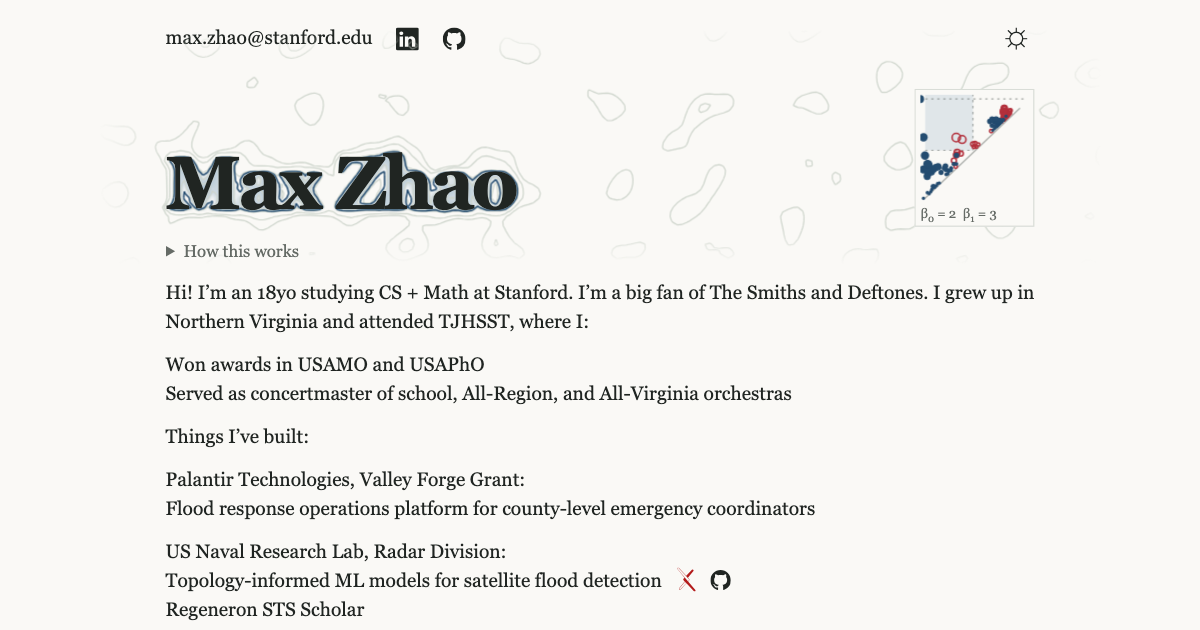
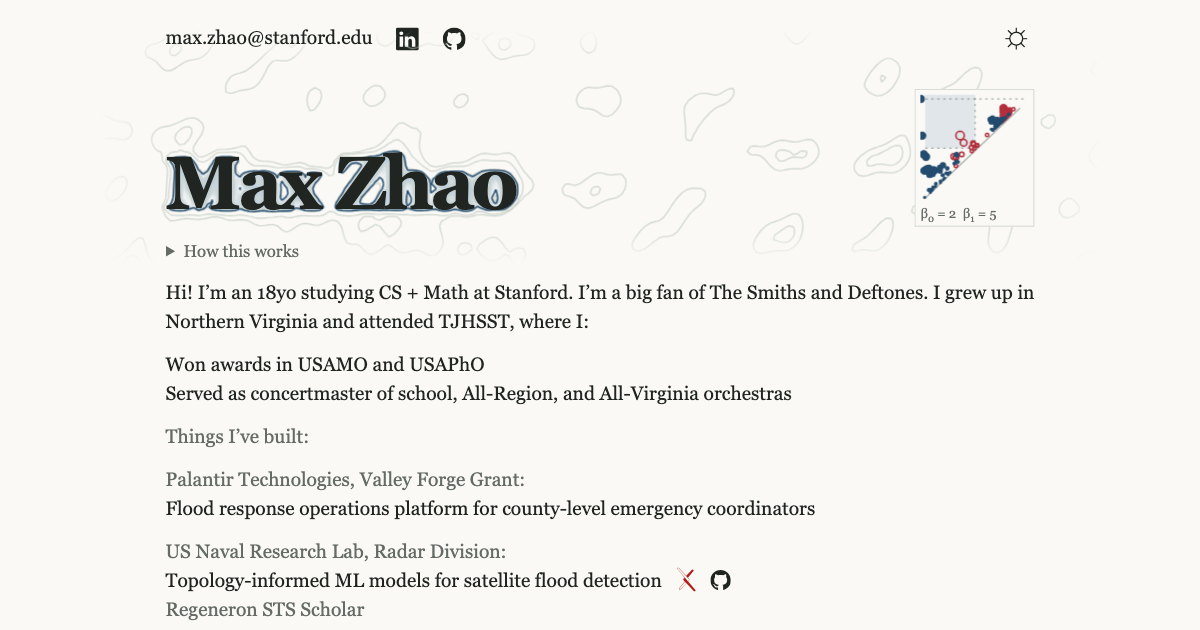
Hold the text until the flood drains; grey the secondary lines
- Slow the intro (rise 2.5 s, drain 1.2 s). flood.js fires flood:settle
  when the water starts to drain or the intro is skipped, and the text
  below the name surfaces then, block by block in reading order (fade,
  rise and unblur). Reduced motion shows it at once, and a 6 s timer
  shows it if the script never loads.
- Set organisation lines, award lines and "Things I've built" in the
  muted grey so each project's own line stands out.
- Remove duplicate KaTeX stylesheet links left by earlier rebuilds.

diff --git a/index.html b/index.html
@@ -33,15 +33,17 @@
       try { saved = localStorage.getItem('max-portfolio-theme'); } catch (e) {}
       const dark = saved ? saved === 'dark' : matchMedia('(prefers-color-scheme: dark)').matches;
       document.documentElement.dataset.theme = dark ? 'dark' : 'light';
+      // hold the text back while the flood intro plays; flood.js fires flood:settle
+      // as the water starts to drain (or at once if the intro is skipped)
+      if (!matchMedia('(prefers-reduced-motion: reduce)').matches) {
+        const root = document.documentElement, show = () => root.classList.remove('intro');
+        root.classList.add('intro');
+        addEventListener('flood:settle', show, { once: true });
+        setTimeout(show, 6000);
+      }
     })();
   </script>
   <script src="flood.js" defer></script>
-  <link rel="stylesheet" href="https://cdn.jsdelivr.net/npm/katex@0.16.47/dist/katex.min.css" integrity="sha384-nH0MfJ44wi1dd7w6jinlyBgljjS8EJAh2JBoRad8a3VDw2K69vfaaqm4WnR+gXtA" crossorigin="anonymous">
-  <link rel="stylesheet" href="https://cdn.jsdelivr.net/npm/katex@0.16.47/dist/katex.min.css" integrity="sha384-nH0MfJ44wi1dd7w6jinlyBgljjS8EJAh2JBoRad8a3VDw2K69vfaaqm4WnR+gXtA" crossorigin="anonymous">
-  <link rel="stylesheet" href="https://cdn.jsdelivr.net/npm/katex@0.16.47/dist/katex.min.css" integrity="sha384-nH0MfJ44wi1dd7w6jinlyBgljjS8EJAh2JBoRad8a3VDw2K69vfaaqm4WnR+gXtA" crossorigin="anonymous">
-  <link rel="stylesheet" href="https://cdn.jsdelivr.net/npm/katex@0.16.47/dist/katex.min.css" integrity="sha384-nH0MfJ44wi1dd7w6jinlyBgljjS8EJAh2JBoRad8a3VDw2K69vfaaqm4WnR+gXtA" crossorigin="anonymous">
-  <link rel="stylesheet" href="https://cdn.jsdelivr.net/npm/katex@0.16.47/dist/katex.min.css" integrity="sha384-nH0MfJ44wi1dd7w6jinlyBgljjS8EJAh2JBoRad8a3VDw2K69vfaaqm4WnR+gXtA" crossorigin="anonymous">
-  <link rel="stylesheet" href="https://cdn.jsdelivr.net/npm/katex@0.16.47/dist/katex.min.css" integrity="sha384-nH0MfJ44wi1dd7w6jinlyBgljjS8EJAh2JBoRad8a3VDw2K69vfaaqm4WnR+gXtA" crossorigin="anonymous">
   <link rel="stylesheet" href="https://cdn.jsdelivr.net/npm/katex@0.16.47/dist/katex.min.css" integrity="sha384-nH0MfJ44wi1dd7w6jinlyBgljjS8EJAh2JBoRad8a3VDw2K69vfaaqm4WnR+gXtA" crossorigin="anonymous">
   <style>
     :root {
@@ -102,6 +104,7 @@
     .flood-pd canvas { display: block; width: 100%; aspect-ratio: 1; }
     .flood-pd figcaption { padding-top: 2px; color: var(--muted); font-size: 11px; line-height: 1.4; white-space: nowrap; }
     .flood-pd sub { font-size: .75em; line-height: 0; }
+    .meta { color: var(--muted); }
     .how { position: relative; z-index: 1; color: var(--muted); font-size: 14px; line-height: 1.5; }
     .how summary { width: fit-content; cursor: pointer; }
     .how p { margin: 6px 0 0; }
@@ -112,6 +115,8 @@
     .icon.arxiv { color: #b31b1b; }
     .icon.arxiv svg { width: 20px; height: 20px; margin: -1px 0; }
     :root[data-theme="dark"] .icon.arxiv { color: #f0908c; }
+    .intro main > :not(.flood) { opacity: 0; transform: translateY(10px); filter: blur(4px); }
+    main > :not(.flood) { transition: opacity .8s ease, transform .9s cubic-bezier(.2, .7, .2, 1), filter .8s ease; transition-delay: calc(var(--i, 0) * 110ms); }
     /* short laptop screens: tighten so the page still fits without scrolling */
     @media (max-height: 760px) and (min-width: 601px) {
       :root { --gap: 12px; }
@@ -139,6 +144,7 @@
       body { transition: none; }
       .flood { cursor: auto; }
       .fig-dig { display: none; }
+      main > :not(.flood) { transition: none; }
     }
   </style>
 </head>
@@ -158,28 +164,28 @@
         <figcaption aria-hidden="true"><span data-flood-readout>β₀ β₁</span></figcaption>
       </figure>
     </div>
-    <details class="how">
+    <details class="how" style="--i:0">
       <summary>How this works</summary>
       <p>The name is terrain: <span class="katex"><span class="katex-mathml"><math xmlns="http://www.w3.org/1998/Math/MathML"><semantics><mrow><mi>f</mi><mo>=</mo><mn>1</mn><mo>−</mo><mn>0.62</mn><mtext> </mtext><mo stretchy="false">(</mo><msub><mi>G</mi><msub><mi>σ</mi><mn>1</mn></msub></msub><mo>∗</mo><mi>L</mi><mo stretchy="false">)</mo><mo>−</mo><mn>0.30</mn><mtext> </mtext><mo stretchy="false">(</mo><msub><mi>G</mi><msub><mi>σ</mi><mn>2</mn></msub></msub><mo>∗</mo><mi>L</mi><mo stretchy="false">)</mo><mo>+</mo><mi>η</mi></mrow><annotation encoding="application/x-tex">f = 1 - 0.62\,(G_{\sigma_1} * L) - 0.30\,(G_{\sigma_2} * L) + \eta</annotation></semantics></math></span><span class="katex-html" aria-hidden="true"><span class="base"><span class="strut" style="height:0.8889em;vertical-align:-0.1944em;"></span><span class="mord mathnormal" style="margin-right:0.1076em;">f</span><span class="mspace" style="margin-right:0.2778em;"></span><span class="mrel">=</span><span class="mspace" style="margin-right:0.2778em;"></span></span><span class="base"><span class="strut" style="height:0.7278em;vertical-align:-0.0833em;"></span><span class="mord">1</span><span class="mspace" style="margin-right:0.2222em;"></span><span class="mbin">−</span><span class="mspace" style="margin-right:0.2222em;"></span></span><span class="base"><span class="strut" style="height:1.0001em;vertical-align:-0.2501em;"></span><span class="mord">0.62</span><span class="mspace" style="margin-right:0.1667em;"></span><span class="mopen">(</span><span class="mord"><span class="mord mathnormal">G</span><span class="msupsub"><span class="vlist-t vlist-t2"><span class="vlist-r"><span class="vlist" style="height:0.1514em;"><span style="top:-2.55em;margin-left:0em;margin-right:0.05em;"><span class="pstrut" style="height:2.7em;"></span><span class="sizing reset-size6 size3 mtight"><span class="mord mtight"><span class="mord mtight"><span class="mord mathnormal mtight" style="margin-right:0.0359em;">σ</span><span class="msupsub"><span class="vlist-t vlist-t2"><span class="vlist-r"><span class="vlist" style="height:0.3173em;"><span style="top:-2.357em;margin-left:-0.0359em;margin-right:0.0714em;"><span class="pstrut" style="height:2.5em;"></span><span class="sizing reset-size3 size1 mtight"><span class="mord mtight">1</span></span></span></span><span class="vlist-s"></span></span><span class="vlist-r"><span class="vlist" style="height:0.143em;"><span></span></span></span></span></span></span></span></span></span></span><span class="vlist-s"></span></span><span class="vlist-r"><span class="vlist" style="height:0.2501em;"><span></span></span></span></span></span></span><span class="mspace" style="margin-right:0.2222em;"></span><span class="mbin">∗</span><span class="mspace" style="margin-right:0.2222em;"></span></span><span class="base"><span class="strut" style="height:1em;vertical-align:-0.25em;"></span><span class="mord mathnormal">L</span><span class="mclose">)</span><span class="mspace" style="margin-right:0.2222em;"></span><span class="mbin">−</span><span class="mspace" style="margin-right:0.2222em;"></span></span><span class="base"><span class="strut" style="height:1.0001em;vertical-align:-0.2501em;"></span><span class="mord">0.30</span><span class="mspace" style="margin-right:0.1667em;"></span><span class="mopen">(</span><span class="mord"><span class="mord mathnormal">G</span><span class="msupsub"><span class="vlist-t vlist-t2"><span class="vlist-r"><span class="vlist" style="height:0.1514em;"><span style="top:-2.55em;margin-left:0em;margin-right:0.05em;"><span class="pstrut" style="height:2.7em;"></span><span class="sizing reset-size6 size3 mtight"><span class="mord mtight"><span class="mord mtight"><span class="mord mathnormal mtight" style="margin-right:0.0359em;">σ</span><span class="msupsub"><span class="vlist-t vlist-t2"><span class="vlist-r"><span class="vlist" style="height:0.3173em;"><span style="top:-2.357em;margin-left:-0.0359em;margin-right:0.0714em;"><span class="pstrut" style="height:2.5em;"></span><span class="sizing reset-size3 size1 mtight"><span class="mord mtight">2</span></span></span></span><span class="vlist-s"></span></span><span class="vlist-r"><span class="vlist" style="height:0.143em;"><span></span></span></span></span></span></span></span></span></span></span><span class="vlist-s"></span></span><span class="vlist-r"><span class="vlist" style="height:0.2501em;"><span></span></span></span></span></span></span><span class="mspace" style="margin-right:0.2222em;"></span><span class="mbin">∗</span><span class="mspace" style="margin-right:0.2222em;"></span></span><span class="base"><span class="strut" style="height:1em;vertical-align:-0.25em;"></span><span class="mord mathnormal">L</span><span class="mclose">)</span><span class="mspace" style="margin-right:0.2222em;"></span><span class="mbin">+</span><span class="mspace" style="margin-right:0.2222em;"></span></span><span class="base"><span class="strut" style="height:0.625em;vertical-align:-0.1944em;"></span><span class="mord mathnormal" style="margin-right:0.0359em;">η</span></span></span></span>, where <span class="katex"><span class="katex-mathml"><math xmlns="http://www.w3.org/1998/Math/MathML"><semantics><mrow><mi>L</mi></mrow><annotation encoding="application/x-tex">L</annotation></semantics></math></span><span class="katex-html" aria-hidden="true"><span class="base"><span class="strut" style="height:0.6833em;"></span><span class="mord mathnormal">L</span></span></span></span> is the letter mask, <span class="katex"><span class="katex-mathml"><math xmlns="http://www.w3.org/1998/Math/MathML"><semantics><mrow><msub><mi>G</mi><mi>σ</mi></msub></mrow><annotation encoding="application/x-tex">G_\sigma</annotation></semantics></math></span><span class="katex-html" aria-hidden="true"><span class="base"><span class="strut" style="height:0.8333em;vertical-align:-0.15em;"></span><span class="mord"><span class="mord mathnormal">G</span><span class="msupsub"><span class="vlist-t vlist-t2"><span class="vlist-r"><span class="vlist" style="height:0.1514em;"><span style="top:-2.55em;margin-left:0em;margin-right:0.05em;"><span class="pstrut" style="height:2.7em;"></span><span class="sizing reset-size6 size3 mtight"><span class="mord mathnormal mtight" style="margin-right:0.0359em;">σ</span></span></span></span><span class="vlist-s"></span></span><span class="vlist-r"><span class="vlist" style="height:0.15em;"><span></span></span></span></span></span></span></span></span></span> a Gaussian blur, and <span class="katex"><span class="katex-mathml"><math xmlns="http://www.w3.org/1998/Math/MathML"><semantics><mrow><mi>η</mi><mo stretchy="false">(</mo><mi mathvariant="bold">x</mi><mo stretchy="false">)</mo><mo>=</mo><msub><mo>∑</mo><mi mathvariant="bold">k</mi></msub><msub><mi>a</mi><mi mathvariant="bold">k</mi></msub><mi>cos</mi><mo></mo><mo stretchy="false">(</mo><mi mathvariant="bold">k</mi><mo>⋅</mo><mi mathvariant="bold">x</mi><mo stretchy="false">)</mo><mo>+</mo><msub><mi>b</mi><mi mathvariant="bold">k</mi></msub><mi>sin</mi><mo></mo><mo stretchy="false">(</mo><mi mathvariant="bold">k</mi><mo>⋅</mo><mi mathvariant="bold">x</mi><mo stretchy="false">)</mo></mrow><annotation encoding="application/x-tex">\eta(\mathbf{x}) = \sum_{\mathbf{k}} a_{\mathbf{k}} \cos(\mathbf{k} \cdot \mathbf{x}) + b_{\mathbf{k}} \sin(\mathbf{k} \cdot \mathbf{x})</annotation></semantics></math></span><span class="katex-html" aria-hidden="true"><span class="base"><span class="strut" style="height:1em;vertical-align:-0.25em;"></span><span class="mord mathnormal" style="margin-right:0.0359em;">η</span><span class="mopen">(</span><span class="mord mathbf">x</span><span class="mclose">)</span><span class="mspace" style="margin-right:0.2778em;"></span><span class="mrel">=</span><span class="mspace" style="margin-right:0.2778em;"></span></span><span class="base"><span class="strut" style="height:1.0497em;vertical-align:-0.2997em;"></span><span class="mop"><span class="mop op-symbol small-op" style="position:relative;top:0em;">∑</span><span class="msupsub"><span class="vlist-t vlist-t2"><span class="vlist-r"><span class="vlist" style="height:0.1864em;"><span style="top:-2.4003em;margin-left:0em;margin-right:0.05em;"><span class="pstrut" style="height:2.7em;"></span><span class="sizing reset-size6 size3 mtight"><span class="mord mtight"><span class="mord mathbf mtight">k</span></span></span></span></span><span class="vlist-s"></span></span><span class="vlist-r"><span class="vlist" style="height:0.2997em;"><span></span></span></span></span></span></span><span class="mspace" style="margin-right:0.1667em;"></span><span class="mord"><span class="mord mathnormal">a</span><span class="msupsub"><span class="vlist-t vlist-t2"><span class="vlist-r"><span class="vlist" style="height:0.3361em;"><span style="top:-2.55em;margin-left:0em;margin-right:0.05em;"><span class="pstrut" style="height:2.7em;"></span><span class="sizing reset-size6 size3 mtight"><span class="mord mtight"><span class="mord mathbf mtight">k</span></span></span></span></span><span class="vlist-s"></span></span><span class="vlist-r"><span class="vlist" style="height:0.15em;"><span></span></span></span></span></span></span><span class="mspace" style="margin-right:0.1667em;"></span><span class="mop">cos</span><span class="mopen">(</span><span class="mord mathbf">k</span><span class="mspace" style="margin-right:0.2222em;"></span><span class="mbin">⋅</span><span class="mspace" style="margin-right:0.2222em;"></span></span><span class="base"><span class="strut" style="height:1em;vertical-align:-0.25em;"></span><span class="mord mathbf">x</span><span class="mclose">)</span><span class="mspace" style="margin-right:0.2222em;"></span><span class="mbin">+</span><span class="mspace" style="margin-right:0.2222em;"></span></span><span class="base"><span class="strut" style="height:1em;vertical-align:-0.25em;"></span><span class="mord"><span class="mord mathnormal">b</span><span class="msupsub"><span class="vlist-t vlist-t2"><span class="vlist-r"><span class="vlist" style="height:0.3361em;"><span style="top:-2.55em;margin-left:0em;margin-right:0.05em;"><span class="pstrut" style="height:2.7em;"></span><span class="sizing reset-size6 size3 mtight"><span class="mord mtight"><span class="mord mathbf mtight">k</span></span></span></span></span><span class="vlist-s"></span></span><span class="vlist-r"><span class="vlist" style="height:0.15em;"><span></span></span></span></span></span></span><span class="mspace" style="margin-right:0.1667em;"></span><span class="mop">sin</span><span class="mopen">(</span><span class="mord mathbf">k</span><span class="mspace" style="margin-right:0.2222em;"></span><span class="mbin">⋅</span><span class="mspace" style="margin-right:0.2222em;"></span></span><span class="base"><span class="strut" style="height:1em;vertical-align:-0.25em;"></span><span class="mord mathbf">x</span><span class="mclose">)</span></span></span></span> a random field whose coefficients follow Ornstein–Uhlenbeck processes, <span class="katex"><span class="katex-mathml"><math xmlns="http://www.w3.org/1998/Math/MathML"><semantics><mrow><mi>d</mi><msub><mi>a</mi><mi mathvariant="bold">k</mi></msub><mo>=</mo><mo>−</mo><mi>θ</mi><mtext> </mtext><msub><mi>a</mi><mi mathvariant="bold">k</mi></msub><mtext> </mtext><mi>d</mi><mi>t</mi><mo>+</mo><mi>σ</mi><mtext> </mtext><mi>d</mi><mi>W</mi></mrow><annotation encoding="application/x-tex">da_{\mathbf{k}} = -\theta\, a_{\mathbf{k}}\,dt + \sigma\,dW</annotation></semantics></math></span><span class="katex-html" aria-hidden="true"><span class="base"><span class="strut" style="height:0.8444em;vertical-align:-0.15em;"></span><span class="mord mathnormal">d</span><span class="mord"><span class="mord mathnormal">a</span><span class="msupsub"><span class="vlist-t vlist-t2"><span class="vlist-r"><span class="vlist" style="height:0.3361em;"><span style="top:-2.55em;margin-left:0em;margin-right:0.05em;"><span class="pstrut" style="height:2.7em;"></span><span class="sizing reset-size6 size3 mtight"><span class="mord mtight"><span class="mord mathbf mtight">k</span></span></span></span></span><span class="vlist-s"></span></span><span class="vlist-r"><span class="vlist" style="height:0.15em;"><span></span></span></span></span></span></span><span class="mspace" style="margin-right:0.2778em;"></span><span class="mrel">=</span><span class="mspace" style="margin-right:0.2778em;"></span></span><span class="base"><span class="strut" style="height:0.8444em;vertical-align:-0.15em;"></span><span class="mord">−</span><span class="mord mathnormal" style="margin-right:0.0278em;">θ</span><span class="mspace" style="margin-right:0.1667em;"></span><span class="mord"><span class="mord mathnormal">a</span><span class="msupsub"><span class="vlist-t vlist-t2"><span class="vlist-r"><span class="vlist" style="height:0.3361em;"><span style="top:-2.55em;margin-left:0em;margin-right:0.05em;"><span class="pstrut" style="height:2.7em;"></span><span class="sizing reset-size6 size3 mtight"><span class="mord mtight"><span class="mord mathbf mtight">k</span></span></span></span></span><span class="vlist-s"></span></span><span class="vlist-r"><span class="vlist" style="height:0.15em;"><span></span></span></span></span></span></span><span class="mspace" style="margin-right:0.1667em;"></span><span class="mord mathnormal">d</span><span class="mord mathnormal">t</span><span class="mspace" style="margin-right:0.2222em;"></span><span class="mbin">+</span><span class="mspace" style="margin-right:0.2222em;"></span></span><span class="base"><span class="strut" style="height:0.6944em;"></span><span class="mord mathnormal" style="margin-right:0.0359em;">σ</span><span class="mspace" style="margin-right:0.1667em;"></span><span class="mord mathnormal">d</span><span class="mord mathnormal" style="margin-right:0.1389em;">W</span></span></span></span>. Water fills the sublevel set <span class="katex"><span class="katex-mathml"><math xmlns="http://www.w3.org/1998/Math/MathML"><semantics><mrow><mo stretchy="false">{</mo><mi mathvariant="bold">x</mi><mo>:</mo><mi>f</mi><mo stretchy="false">(</mo><mi mathvariant="bold">x</mi><mo stretchy="false">)</mo><mo>≤</mo><mi>t</mi><mo stretchy="false">}</mo></mrow><annotation encoding="application/x-tex">\{\mathbf{x} : f(\mathbf{x}) \le t\}</annotation></semantics></math></span><span class="katex-html" aria-hidden="true"><span class="base"><span class="strut" style="height:1em;vertical-align:-0.25em;"></span><span class="mopen">{</span><span class="mord mathbf">x</span><span class="mspace" style="margin-right:0.2778em;"></span><span class="mrel">:</span><span class="mspace" style="margin-right:0.2778em;"></span></span><span class="base"><span class="strut" style="height:1em;vertical-align:-0.25em;"></span><span class="mord mathnormal" style="margin-right:0.1076em;">f</span><span class="mopen">(</span><span class="mord mathbf">x</span><span class="mclose">)</span><span class="mspace" style="margin-right:0.2778em;"></span><span class="mrel">≤</span><span class="mspace" style="margin-right:0.2778em;"></span></span><span class="base"><span class="strut" style="height:1em;vertical-align:-0.25em;"></span><span class="mord mathnormal">t</span><span class="mclose">}</span></span></span></span>, the pixel filtration my flood detection paper runs on radar images. The inset is its persistence diagram, recomputed every frame by union-find: dots are pools (<span class="katex"><span class="katex-mathml"><math xmlns="http://www.w3.org/1998/Math/MathML"><semantics><mrow><msub><mi>H</mi><mn>0</mn></msub></mrow><annotation encoding="application/x-tex">H_0</annotation></semantics></math></span><span class="katex-html" aria-hidden="true"><span class="base"><span class="strut" style="height:0.8333em;vertical-align:-0.15em;"></span><span class="mord"><span class="mord mathnormal" style="margin-right:0.0813em;">H</span><span class="msupsub"><span class="vlist-t vlist-t2"><span class="vlist-r"><span class="vlist" style="height:0.3011em;"><span style="top:-2.55em;margin-left:-0.0813em;margin-right:0.05em;"><span class="pstrut" style="height:2.7em;"></span><span class="sizing reset-size6 size3 mtight"><span class="mord mtight">0</span></span></span></span><span class="vlist-s"></span></span><span class="vlist-r"><span class="vlist" style="height:0.15em;"><span></span></span></span></span></span></span></span></span></span>), rings are islands (<span class="katex"><span class="katex-mathml"><math xmlns="http://www.w3.org/1998/Math/MathML"><semantics><mrow><msub><mi>H</mi><mn>1</mn></msub></mrow><annotation encoding="application/x-tex">H_1</annotation></semantics></math></span><span class="katex-html" aria-hidden="true"><span class="base"><span class="strut" style="height:0.8333em;vertical-align:-0.15em;"></span><span class="mord"><span class="mord mathnormal" style="margin-right:0.0813em;">H</span><span class="msupsub"><span class="vlist-t vlist-t2"><span class="vlist-r"><span class="vlist" style="height:0.3011em;"><span style="top:-2.55em;margin-left:-0.0813em;margin-right:0.05em;"><span class="pstrut" style="height:2.7em;"></span><span class="sizing reset-size6 size3 mtight"><span class="mord mtight">1</span></span></span></span><span class="vlist-s"></span></span><span class="vlist-r"><span class="vlist" style="height:0.15em;"><span></span></span></span></span></span></span></span></span></span>), and <span class="katex"><span class="katex-mathml"><math xmlns="http://www.w3.org/1998/Math/MathML"><semantics><mrow><msub><mi>β</mi><mn>0</mn></msub><mo separator="true">,</mo><msub><mi>β</mi><mn>1</mn></msub></mrow><annotation encoding="application/x-tex">\beta_0, \beta_1</annotation></semantics></math></span><span class="katex-html" aria-hidden="true"><span class="base"><span class="strut" style="height:0.8889em;vertical-align:-0.1944em;"></span><span class="mord"><span class="mord mathnormal" style="margin-right:0.0528em;">β</span><span class="msupsub"><span class="vlist-t vlist-t2"><span class="vlist-r"><span class="vlist" style="height:0.3011em;"><span style="top:-2.55em;margin-left:-0.0528em;margin-right:0.05em;"><span class="pstrut" style="height:2.7em;"></span><span class="sizing reset-size6 size3 mtight"><span class="mord mtight">0</span></span></span></span><span class="vlist-s"></span></span><span class="vlist-r"><span class="vlist" style="height:0.15em;"><span></span></span></span></span></span></span><span class="mpunct">,</span><span class="mspace" style="margin-right:0.1667em;"></span><span class="mord"><span class="mord mathnormal" style="margin-right:0.0528em;">β</span><span class="msupsub"><span class="vlist-t vlist-t2"><span class="vlist-r"><span class="vlist" style="height:0.3011em;"><span style="top:-2.55em;margin-left:-0.0528em;margin-right:0.05em;"><span class="pstrut" style="height:2.7em;"></span><span class="sizing reset-size6 size3 mtight"><span class="mord mtight">1</span></span></span></span><span class="vlist-s"></span></span><span class="vlist-r"><span class="vlist" style="height:0.15em;"><span></span></span></span></span></span></span></span></span></span> count those alive at the current level <span class="katex"><span class="katex-mathml"><math xmlns="http://www.w3.org/1998/Math/MathML"><semantics><mrow><mi>t</mi></mrow><annotation encoding="application/x-tex">t</annotation></semantics></math></span><span class="katex-html" aria-hidden="true"><span class="base"><span class="strut" style="height:0.6151em;"></span><span class="mord mathnormal">t</span></span></span></span>.<span class="fig-dig"> Dragging across the name subtracts a Gaussian from <span class="katex"><span class="katex-mathml"><math xmlns="http://www.w3.org/1998/Math/MathML"><semantics><mrow><mi>f</mi></mrow><annotation encoding="application/x-tex">f</annotation></semantics></math></span><span class="katex-html" aria-hidden="true"><span class="base"><span class="strut" style="height:0.8889em;vertical-align:-0.1944em;"></span><span class="mord mathnormal" style="margin-right:0.1076em;">f</span></span></span></span>, digging channels and rings.</span></p>
     </details>
 
-    <p>Hi! I’m an 18yo studying CS + Math at Stanford. I’m a big fan of The Smiths and Deftones. I grew up in Northern Virginia and attended TJHSST, where I:</p>
+    <p style="--i:1">Hi! I’m an 18yo studying CS + Math at Stanford. I’m a big fan of The Smiths and Deftones. I grew up in Northern Virginia and attended TJHSST, where I:</p>
 
-    <p>Won awards in USAMO and USAPhO<br>
+    <p style="--i:2">Won awards in USAMO and USAPhO<br>
       Served as concertmaster of school, All-Region, and All-Virginia orchestras</p>
 
-    <p>Things I’ve built:</p>
+    <p class="meta" style="--i:3">Things I’ve built:</p>
 
-    <p>Palantir Technologies, Valley Forge Grant:<br>
+    <p style="--i:4"><span class="meta">Palantir Technologies, Valley Forge Grant:</span><br>
       Flood response operations platform for county-level emergency coordinators</p>
 
-    <p>US Naval Research Lab, Radar Division:<br>
+    <p style="--i:5"><span class="meta">US Naval Research Lab, Radar Division:</span><br>
       Topology-informed ML models for satellite flood detection<a class="icon arxiv" href="https://arxiv.org/html/2606.26204v2" aria-label="Paper on arXiv" title="Paper on arXiv"><svg viewBox="0 0 24 24" aria-hidden="true"><path fill="currentColor" d="M3.8423 0a1.0037 1.0037 0 0 0-.922.6078c-.1536.3687-.0438.6275.2938 1.1113l6.9185 8.3597-1.0223 1.1058a1.0393 1.0393 0 0 0 .003 1.4229l1.2292 1.3135-5.4391 6.4444c-.2803.299-.4538.823-.2971 1.1986a1.0253 1.0253 0 0 0 .9585.635.9133.9133 0 0 0 .6891-.3405l5.783-6.126 7.4902 8.0051a.8527.8527 0 0 0 .6835.2597.9575.9575 0 0 0 .8777-.6138c.1577-.377-.017-.7502-.306-1.1407l-7.0518-8.3418 1.0632-1.13a.9626.9626 0 0 0 .0089-1.3165L4.6336.4639s-.3733-.4535-.768-.463zm0 .272h.0166c.2179.0052.4874.2715.5644.3639l.005.006.0052.0055 10.169 10.9905a.6915.6915 0 0 1-.0072.945l-1.0666 1.133-1.4982-1.7724-8.5994-10.39c-.3286-.472-.352-.6183-.2592-.841a.7307.7307 0 0 1 .6704-.4401Zm14.341 1.5701a.877.877 0 0 0-.6554.2418l-5.6962 6.1584 1.6944 1.8319 5.3089-6.5138c.3251-.4335.479-.6603.3247-1.0292a1.1205 1.1205 0 0 0-.9763-.689zm-7.6557 12.2823 1.3186 1.4135-5.7864 6.1295a.6494.6494 0 0 1-.4959.26.7516.7516 0 0 1-.706-.4669c-.1119-.2682.0359-.6864.2442-.9083l.0051-.0055.0047-.0055z"/></svg></a><a class="icon" href="https://github.com/mzhao1599/tda-sen12flood" aria-label="Code on GitHub" title="Code on GitHub"><svg viewBox="0 0 16 16" aria-hidden="true"><path fill="currentColor" d="M8 0C3.58 0 0 3.58 0 8c0 3.54 2.29 6.53 5.47 7.59.4.07.55-.17.55-.38 0-.19-.01-.82-.01-1.49-2.01.37-2.53-.49-2.69-.94-.09-.23-.48-.94-.82-1.13-.28-.15-.68-.52-.01-.53.63-.01 1.08.58 1.23.82.72 1.21 1.87.87 2.33.66.07-.52.28-.87.51-1.07-1.78-.2-3.64-.89-3.64-3.95 0-.87.31-1.59.82-2.15-.08-.2-.36-1.02.08-2.12 0 0 .67-.21 2.2.82.64-.18 1.32-.27 2-.27.68 0 1.36.09 2 .27 1.53-1.04 2.2-.82 2.2-.82.44 1.1.16 1.92.08 2.12.51.56.82 1.27.82 2.15 0 3.07-1.87 3.75-3.65 3.95.29.25.54.73.54 1.48 0 1.07-.01 1.93-.01 2.2 0 .21.15.46.55.38A8.013 8.013 0 0016 8c0-4.42-3.58-8-8-8z"/></svg></a><br>
-      Regeneron STS Scholar</p>
+      <span class="meta">Regeneron STS Scholar</span></p>
 
-    <p>George Mason University, Algorithms Lab:<br>
+    <p style="--i:6"><span class="meta">George Mason University, Algorithms Lab:</span><br>
       Quantum-inspired algorithm for combinatorial optimization<a class="icon arxiv" href="https://reference-global.com/article/10.2478/qic-2025-0023?tab=article" aria-label="Paper in Quantum Information and Computation" title="Paper in Quantum Information and Computation"><svg viewBox="0 0 24 24" aria-hidden="true"><path fill="currentColor" d="M3.8423 0a1.0037 1.0037 0 0 0-.922.6078c-.1536.3687-.0438.6275.2938 1.1113l6.9185 8.3597-1.0223 1.1058a1.0393 1.0393 0 0 0 .003 1.4229l1.2292 1.3135-5.4391 6.4444c-.2803.299-.4538.823-.2971 1.1986a1.0253 1.0253 0 0 0 .9585.635.9133.9133 0 0 0 .6891-.3405l5.783-6.126 7.4902 8.0051a.8527.8527 0 0 0 .6835.2597.9575.9575 0 0 0 .8777-.6138c.1577-.377-.017-.7502-.306-1.1407l-7.0518-8.3418 1.0632-1.13a.9626.9626 0 0 0 .0089-1.3165L4.6336.4639s-.3733-.4535-.768-.463zm0 .272h.0166c.2179.0052.4874.2715.5644.3639l.005.006.0052.0055 10.169 10.9905a.6915.6915 0 0 1-.0072.945l-1.0666 1.133-1.4982-1.7724-8.5994-10.39c-.3286-.472-.352-.6183-.2592-.841a.7307.7307 0 0 1 .6704-.4401Zm14.341 1.5701a.877.877 0 0 0-.6554.2418l-5.6962 6.1584 1.6944 1.8319 5.3089-6.5138c.3251-.4335.479-.6603.3247-1.0292a1.1205 1.1205 0 0 0-.9763-.689zm-7.6557 12.2823 1.3186 1.4135-5.7864 6.1295a.6494.6494 0 0 1-.4959.26.7516.7516 0 0 1-.706-.4669c-.1119-.2682.0359-.6864.2442-.9083l.0051-.0055.0047-.0055z"/></svg></a><a class="icon" href="https://github.com/mzhao1599/qudoku" aria-label="Code on GitHub" title="Code on GitHub"><svg viewBox="0 0 16 16" aria-hidden="true"><path fill="currentColor" d="M8 0C3.58 0 0 3.58 0 8c0 3.54 2.29 6.53 5.47 7.59.4.07.55-.17.55-.38 0-.19-.01-.82-.01-1.49-2.01.37-2.53-.49-2.69-.94-.09-.23-.48-.94-.82-1.13-.28-.15-.68-.52-.01-.53.63-.01 1.08.58 1.23.82.72 1.21 1.87.87 2.33.66.07-.52.28-.87.51-1.07-1.78-.2-3.64-.89-3.64-3.95 0-.87.31-1.59.82-2.15-.08-.2-.36-1.02.08-2.12 0 0 .67-.21 2.2.82.64-.18 1.32-.27 2-.27.68 0 1.36.09 2 .27 1.53-1.04 2.2-.82 2.2-.82.44 1.1.16 1.92.08 2.12.51.56.82 1.27.82 2.15 0 3.07-1.87 3.75-3.65 3.95.29.25.54.73.54 1.48 0 1.07-.01 1.93-.01 2.2 0 .21.15.46.55.38A8.013 8.013 0 0016 8c0-4.42-3.58-8-8-8z"/></svg></a><br>
-      S.T. Yau Science Award USA Gold Prize in Physics</p>
+      <span class="meta">S.T. Yau Science Award USA Gold Prize in Physics</span></p>
   </main>
   <script>
     const root = document.documentElement;

diff --git a/flood.js b/flood.js
@@ -12,7 +12,7 @@
   'use strict';
 
   const reduceMQ = matchMedia('(prefers-reduced-motion: reduce)');
-  const INTRO_RISE = 1.9, INTRO_FALL = 0.9;           // seconds
+  const INTRO_RISE = 2.5, INTRO_FALL = 1.2;           // seconds
   const MODES = 16, ETA_STD = 0.045, ETA_THETA = 0.25; // idle terrain noise
   const T_STD = 0.014, T_THETA = 0.35;                 // idle water level
   const DIG_DEPTH = 0.5, DIG_SIGMA = 9, DIG_TAU = 2.4;  // pointer (CSS px, s)
@@ -143,11 +143,12 @@
         .then(() => { this.build(); this.draw(); });
       new MutationObserver(() => { this.readColors(); this.draw(); }).observe(document.documentElement, { attributes: true, attributeFilter: ['data-theme'] });
       matchMedia('(prefers-color-scheme: dark)').addEventListener('change', () => { this.readColors(); this.draw(); });
-      reduceMQ.addEventListener('change', () => { this.intro = false; this.settle(); this.schedule(); });
+      reduceMQ.addEventListener('change', () => { this.intro = false; this.tLevel = this.tRest; this.u = 0; this.draw(); this.settle(); this.schedule(); });
       document.addEventListener('visibilitychange', () => { this.visible = !document.hidden; this.schedule(); });
       new IntersectionObserver(e => { this.onscreen = e[0].isIntersecting; this.schedule(); }).observe(this.field);
 
-      const skip = () => { if (this.intro) { this.intro = false; this.tLevel = this.tRest; } };
+      const skip = () => { if (this.intro) { this.intro = false; this.tLevel = this.tRest; } this.settle(); };
+      if (!this.intro) this.settle();
       for (const ev of ['keydown', 'wheel', 'touchstart', 'pointerdown', 'scroll']) addEventListener(ev, skip, { once: true, passive: true });
 
       const move = e => {
@@ -167,6 +168,13 @@
       root.addEventListener('pointerleave', up);
 
       this.schedule();
+    }
+
+    // tells the page the flood has peaked, so text can surface as it drains
+    settle() {
+      if (this.settled) return;
+      this.settled = true;
+      dispatchEvent(new Event('flood:settle'));
     }
 
     readColors() {
@@ -319,8 +327,6 @@
       this.min = this.ph(f, W, H, this.h0, this.h1);
     }
 
-    settle() { this.tLevel = this.tRest; this.u = 0; this.draw(); }
-
     schedule() {
       const run = this.visible && this.onscreen && !reduceMQ.matches;
       if (run && !this.raf) { this.last = performance.now(); this.raf = requestAnimationFrame(t => this.tick(t)); }
@@ -340,8 +346,9 @@
           const s = (now - this.introStart) / 1000, top = this.hi, lo = this.lo;
           if (s < INTRO_RISE) { const p = s / INTRO_RISE; this.tLevel = lo + (top - lo) * (1 - Math.pow(1 - p, 2.2)); }
           else if (s < INTRO_RISE + INTRO_FALL) { const p = (s - INTRO_RISE) / INTRO_FALL; this.tLevel = top + (this.tRest - top) * p * p * (3 - 2 * p); }
-          else { this.intro = false; this.tLevel = this.tRest; }
+          else { this.intro = false; this.tLevel = this.tRest; this.settle(); }
           this.risen = s >= INTRO_RISE;
+          if (this.risen) this.settle();
         } else this.tLevel = this.tRest + this.u;
         this.updateField();
         this.draw();
